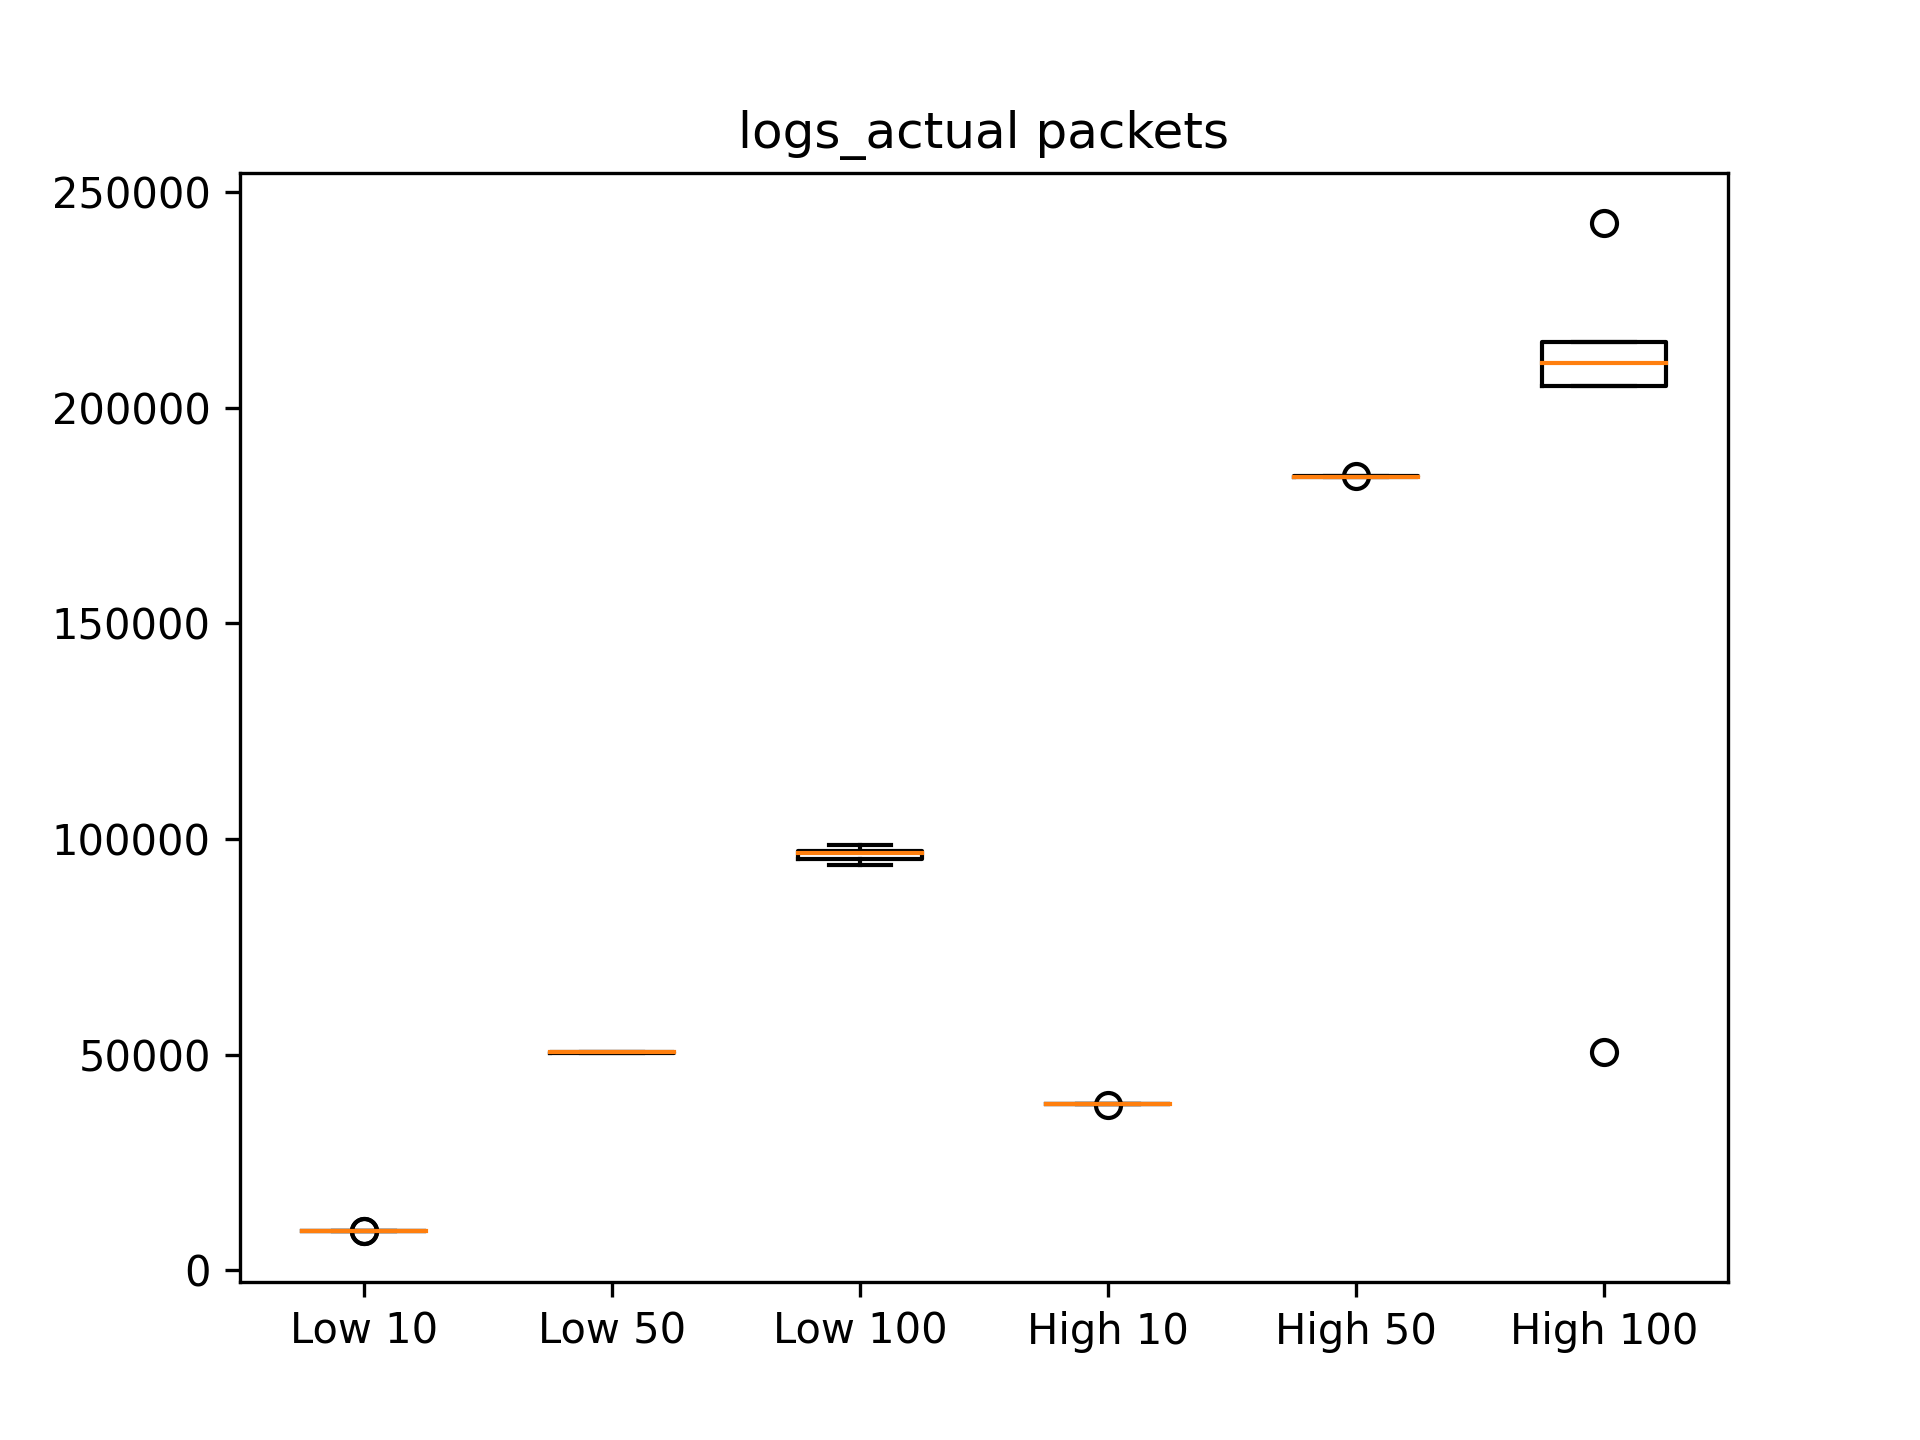
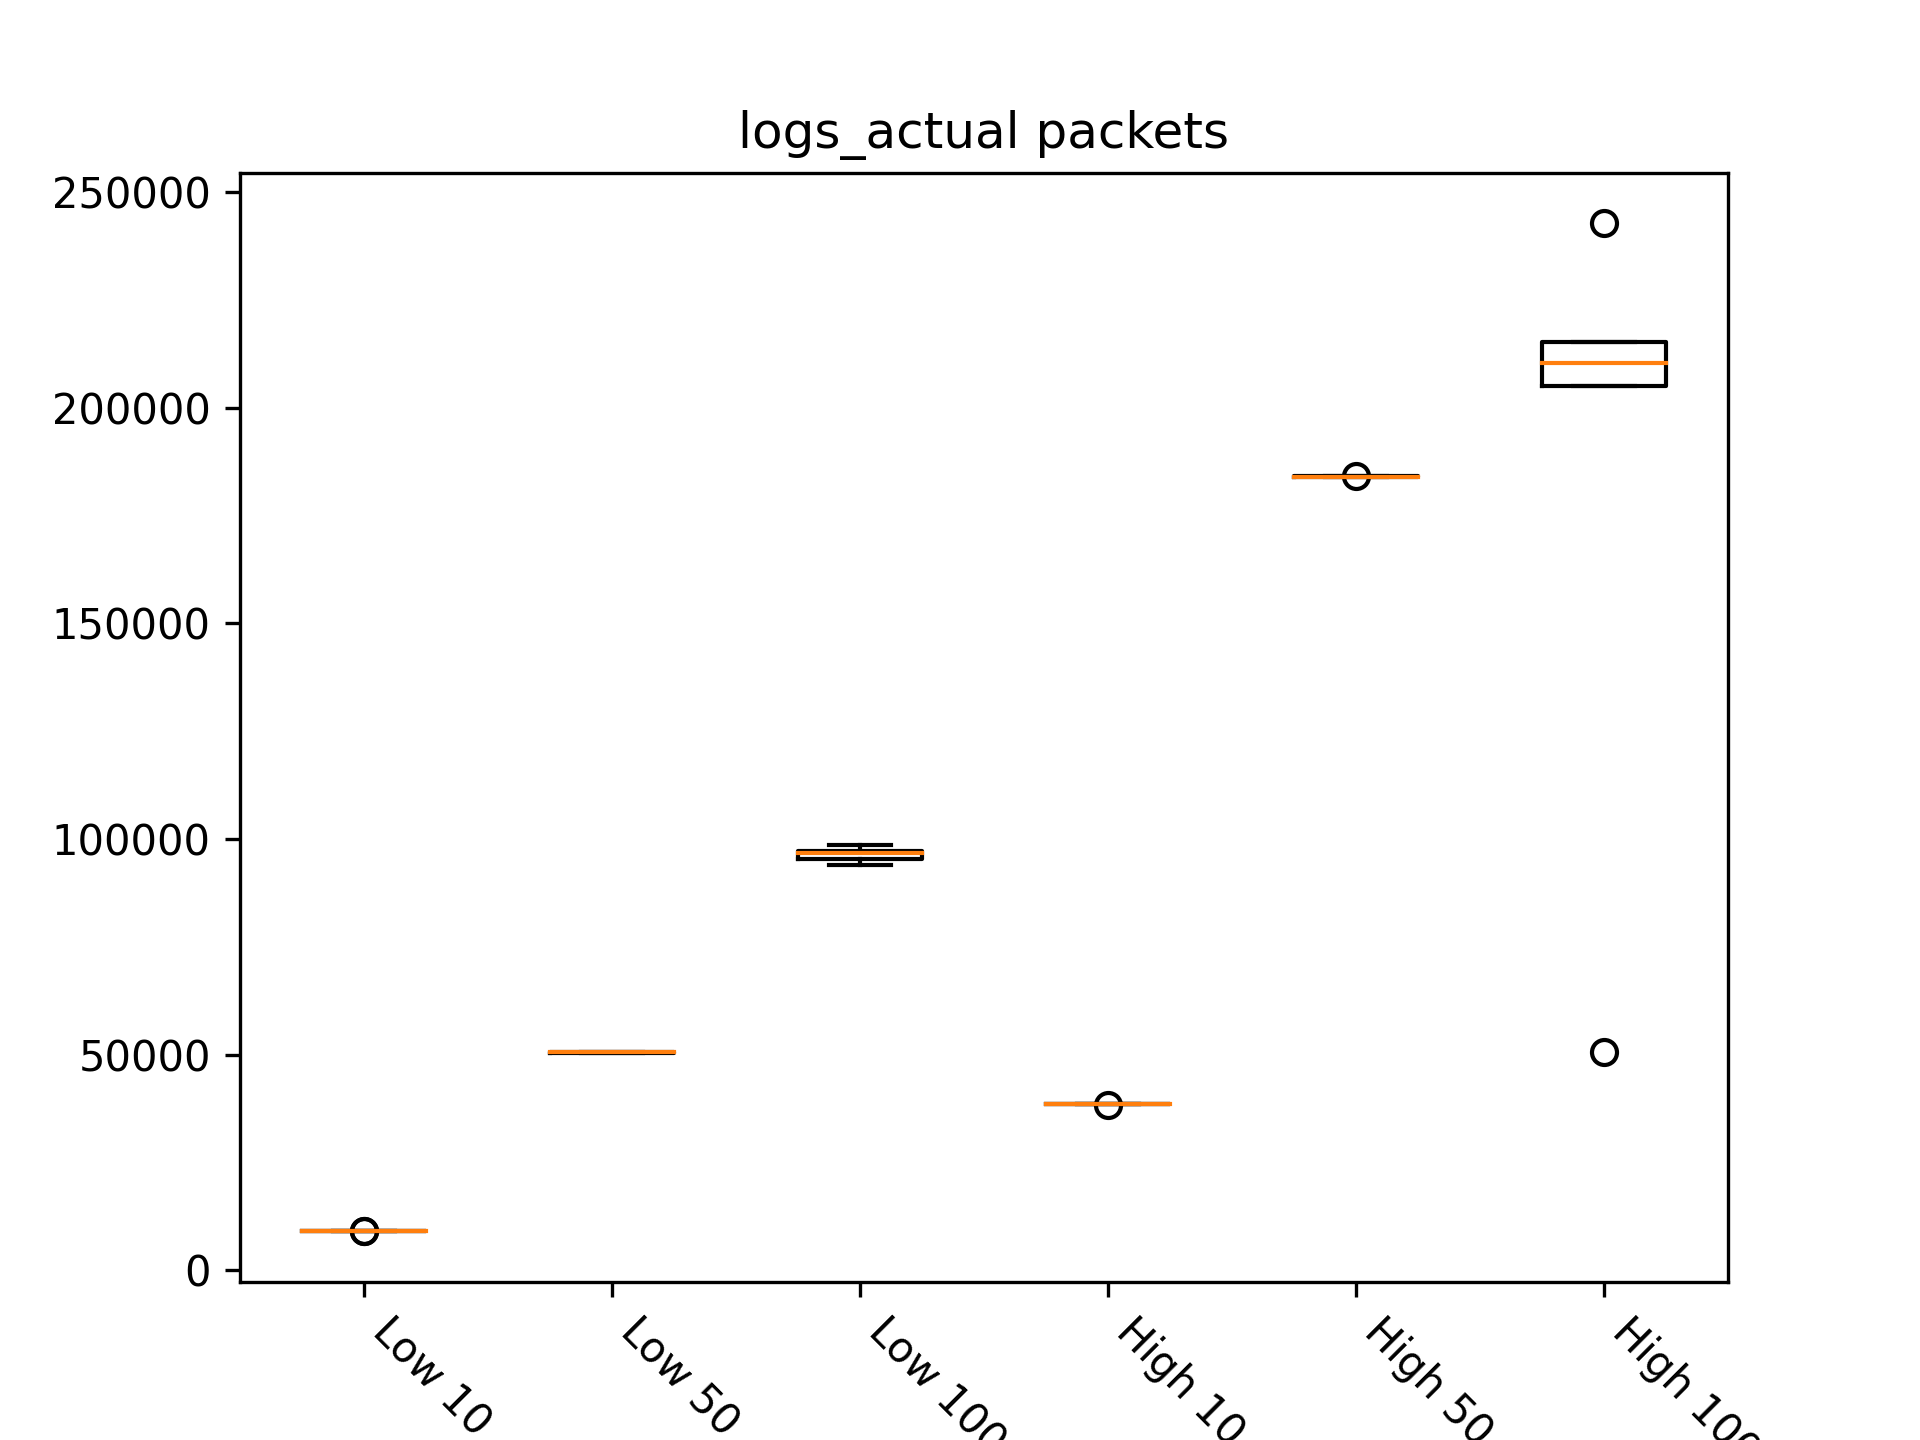
more readable legends

diff --git a/graph.py b/graph.py
@@ -161,9 +161,11 @@ def write_data_csv(data, labels, prefix):
             write_table_csv(writer_totals, total_metrics, totals)
 
 def main():
+
     data = collect_data()
     for metric in data:
         plt.clf()
+        plt.xticks(rotation=-45, ha='left')
         plt.boxplot(data[metric], labels = all_labels, )
         plt.title(metric)
         plt.autoscale()
@@ -174,6 +176,7 @@ def main():
     logs_data = digest_logs()
     for metric in logs_data:
         plt.clf()
+        plt.xticks(rotation=-45, ha='left')
         plt.boxplot(logs_data[metric], labels = logs_labels)
         plt.title(f"logs_{metric}")
         plt.autoscale()

diff --git a/README.md b/README.md
@@ -22,12 +22,12 @@ Metrics with description:
 * `total packets`: Total packets sent in the network by all agents
 * `total bytes per seconds`: Like above, but divided by running time
 * `total packets per seconds`: Like above, but divided by running time
-* `logs_expected bytes` Sent bytes as reported in the logs
-* `logs_actual bytes` Sent bytes as measured by the system
-* `logs_expected packets` Sent packets as reported in the logs
-* `logs_actual packets` Sent packets as measured by the system
-* `logs_bytes ratio` actual/expected bytes
-* `logs_packets ratio` actual/expected packets
+* `logs_expected bytes`: Sent bytes as reported in the logs
+* `logs_actual bytes`: Sent bytes as measured by the system
+* `logs_expected packets`: Sent packets as reported in the logs
+* `logs_actual packets`: Sent packets as measured by the system
+* `logs_bytes ratio`: actual/expected bytes
+* `logs_packets ratio`: actual/expected packets
 
 ## Usage
 
